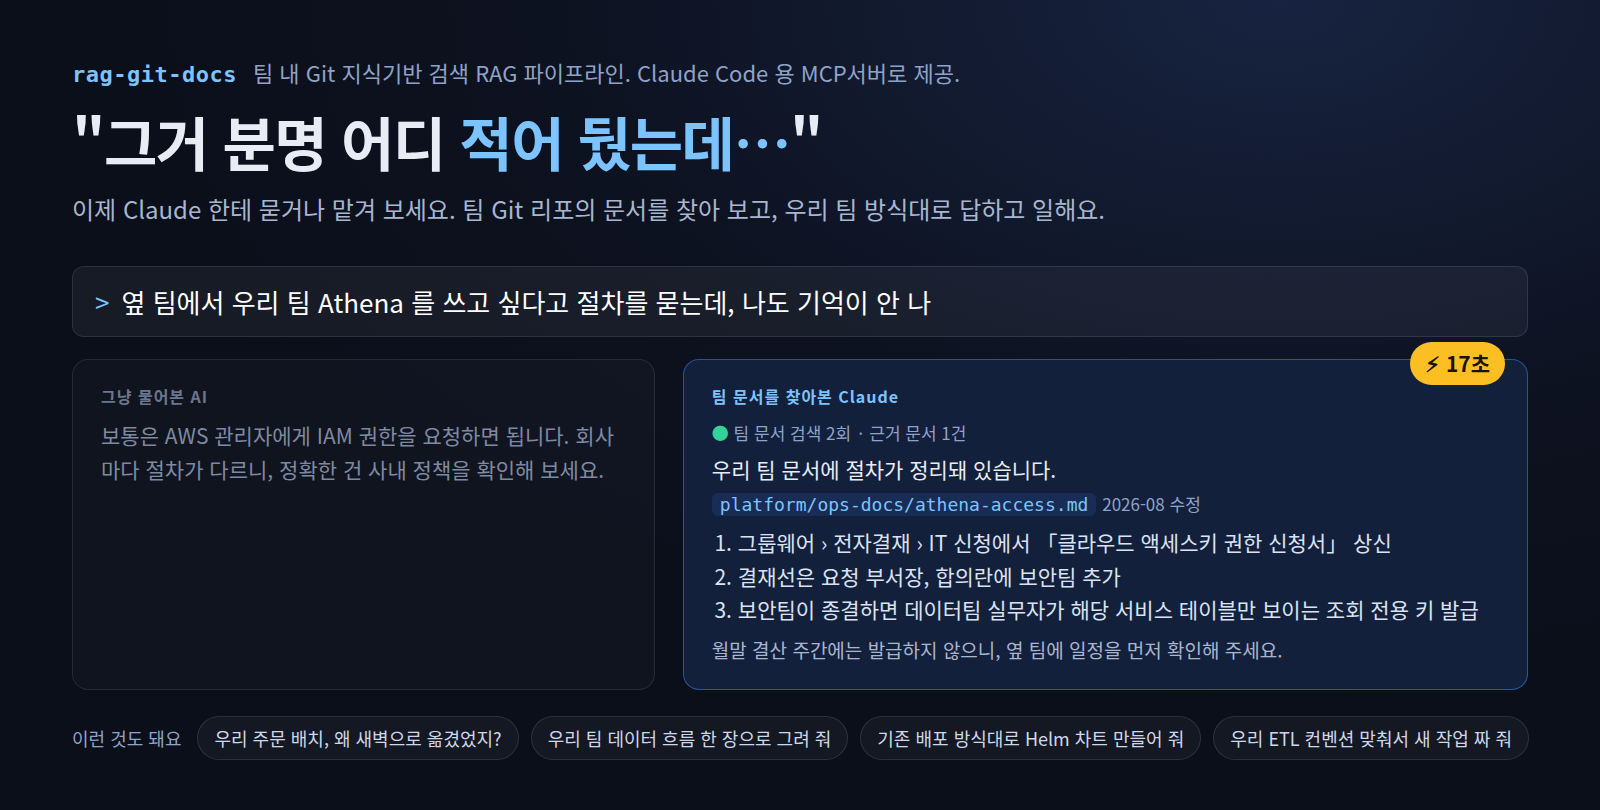
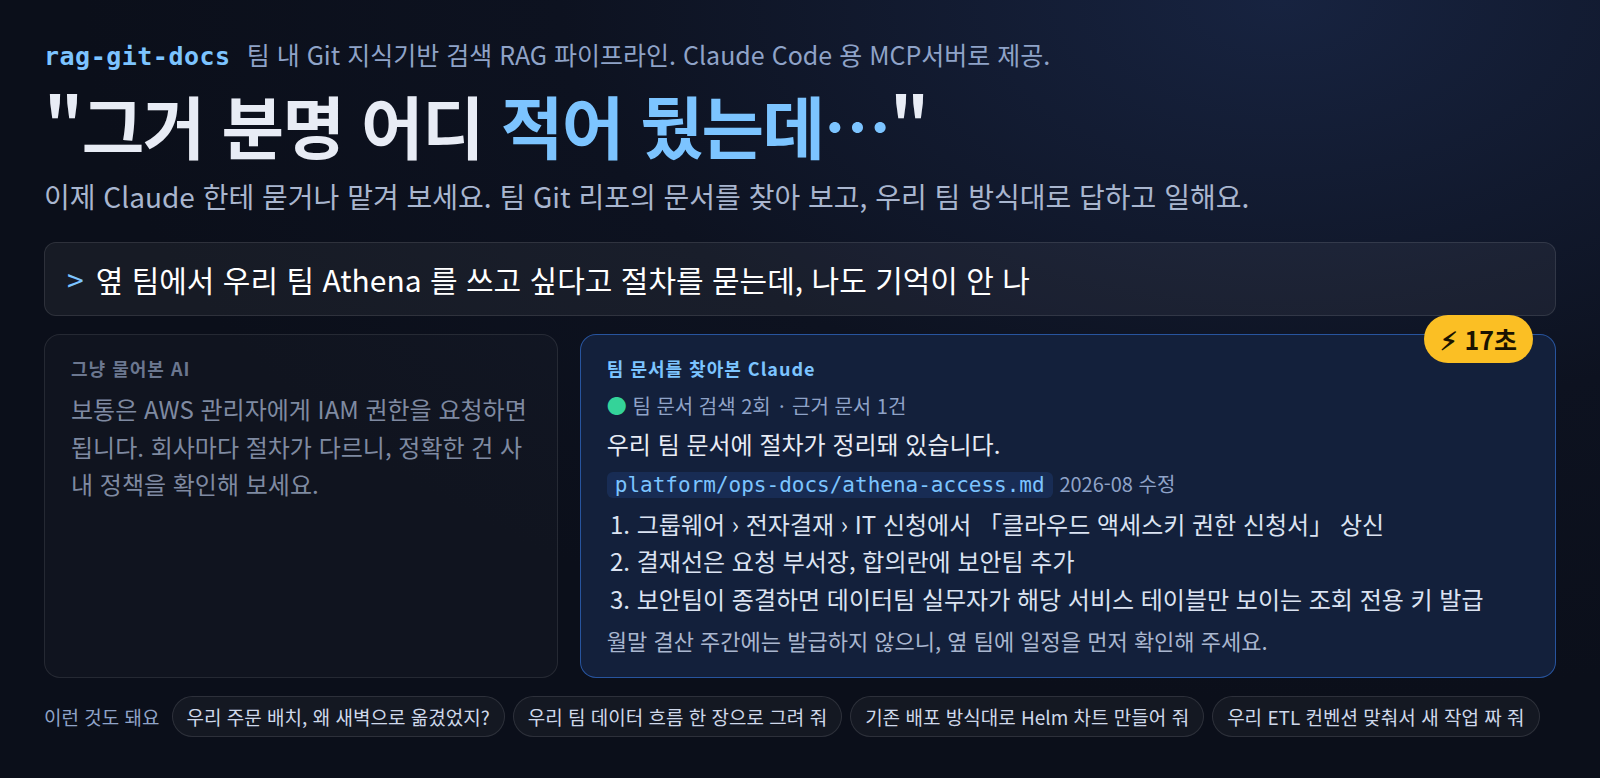
image

Changed region(s): [[0.0312, 0.401, 1.0, 0.9563], [0.0312, 0.0617, 0.7812, 0.2776], [0.0312, 0.3393, 0.6562, 0.401]]

diff --git a/docs/design.md b/docs/design.md
@@ -9,14 +9,14 @@
 
 | 문서 | 독자 | 담는 것 |
 |---|---|---|
-| `README.md` | 누구나 | 이 순서로 둔다: 한 줄 요약, 표지 이미지와 활용 예 GIF, 도입부, 빠른 연결(등록 명령과 사용 가이드 링크), 시스템 구조, 수집 방식 비교 표, 서버에 설치하기(운영자용 최소 명령과 운영 가이드 링크), 로컬 PC 에서 직접 설치·운영하기(예외 경로임을 밝히고 운영 가이드로 링크만), 문서 안내 표, 코드 구조. 처음 보는 사람이 붙는 법부터 알게 하고, 개발자용 내용은 뒤로 보낸다 |
+| `README.md` | 누구나 | 이 순서로 둔다: 한 줄 요약, 활용 예 GIF 와 표지 이미지, 도입부, 빠른 연결(등록 명령과 사용 가이드 링크), 시스템 구조, 수집 방식 비교 표, 서버에 설치하기(운영자용 최소 명령과 운영 가이드 링크), 로컬 PC 에서 직접 설치·운영하기(예외 경로임을 밝히고 운영 가이드로 링크만), 문서 안내 표, 코드 구조. 처음 보는 사람이 붙는 법부터 알게 하고, 개발자용 내용은 뒤로 보낸다 |
 | `docs/usage.md` | 쓰는 사람 | 연결하기, 무엇을 물을 수 있나, 어떻게 답하나, 연결 관리, 문제 해결 |
 | `docs/operations.md` | 운영자 | 설치·업그레이드, 수집 방식 고르기, 토큰 관리, 네트워크, 로그, 로컬 실행 |
 | `docs/design.md` (이 문서) | 에이전트 | 왜 이렇게 만들었는지, 지켜야 할 약속. 사람용 안내는 옮겨 오지 않는다 |
 | `docs/proposal-git-clone.md` | 기록 | clone 방식 검토 당시의 기록. 본문은 고치지 않고, 달라진 점은 "검토 때와 달라진 점"에 덧붙인다 |
 | `docs/architecture.svg` | 누구나 | README 의 시스템 구조도. 구조가 바뀌면 같이 고친다. 로고는 Simple Icons(CC0)의 path 를 그대로 넣는다 |
-| `docs/cover.png` | 누구나 | README 맨 위 표지. 무엇이고 일반 AI 와 무엇이 다른지, 무엇까지 되는지를 멈춘 한 장으로 보여 준다. 사례는 지어낸 것만 쓴다 |
-| `docs/demo.gif` | 누구나 | 표지 아래 활용 예. 헤드라인 한 줄로 시작해 묻기와 맡기기 장면을 보여 준다. 읽다가 넘어가지 않게 설명과 칩은 표지에만 둔다. 사례는 지어낸 것만 쓴다 |
+| `docs/cover.png` | 누구나 | README 의 GIF 아래 표지. 무엇이고 일반 AI 와 무엇이 다른지, 무엇까지 되는지를 멈춘 한 장으로 보여 준다. 사례는 지어낸 것만 쓴다 |
+| `docs/demo.gif` | 누구나 | README 맨 위 활용 예. 헤드라인 한 줄로 시작해 묻기와 맡기기 장면을 보여 준다. 읽다가 넘어가지 않게 설명과 칩은 표지에만 둔다. 사례는 지어낸 것만 쓴다 |
 
 README 에는 정상 경로만 짧게 두고, 상세는 usage.md·operations.md 로 링크한다. 같은 내용을 두 곳에 쓰지 않는다.
 쓰는 사람이 직접 치는 명령은 usage.md 에 둔다. operations.md 는 그 명령을 다시 적지 않고 usage.md 로 링크한다.

diff --git a/README.md b/README.md
@@ -2,9 +2,9 @@
 
 > 팀의 Git 문서를 Vector DB 에 담아, Claude Code 가 우리 팀의 방식으로 답하게 하는 RAG 파이프라인. Claude Code 에는 검색 MCP 서버로 붙는다.
 
-![일반 AI 와 팀 문서를 찾아본 Claude 의 답 비교](docs/cover.png)
-
 ![Claude Code 에서 팀 절차를 묻고, 기존 구성대로 설정 작성을 맡기는 예](docs/demo.gif)
+
+![일반 AI 와 팀 문서를 찾아본 Claude 의 답 비교](docs/cover.png)
 
 AI 는 기술의 일반적인 맥락에는 밝지만, 조직의 비즈니스 맥락은 알지 못한다.
 같은 질문에도 "보통은 이렇게 한다"와 "우리는 이렇게 한다"는 다를 때가 많고, 실무에 필요한 답은 늘 후자다.
